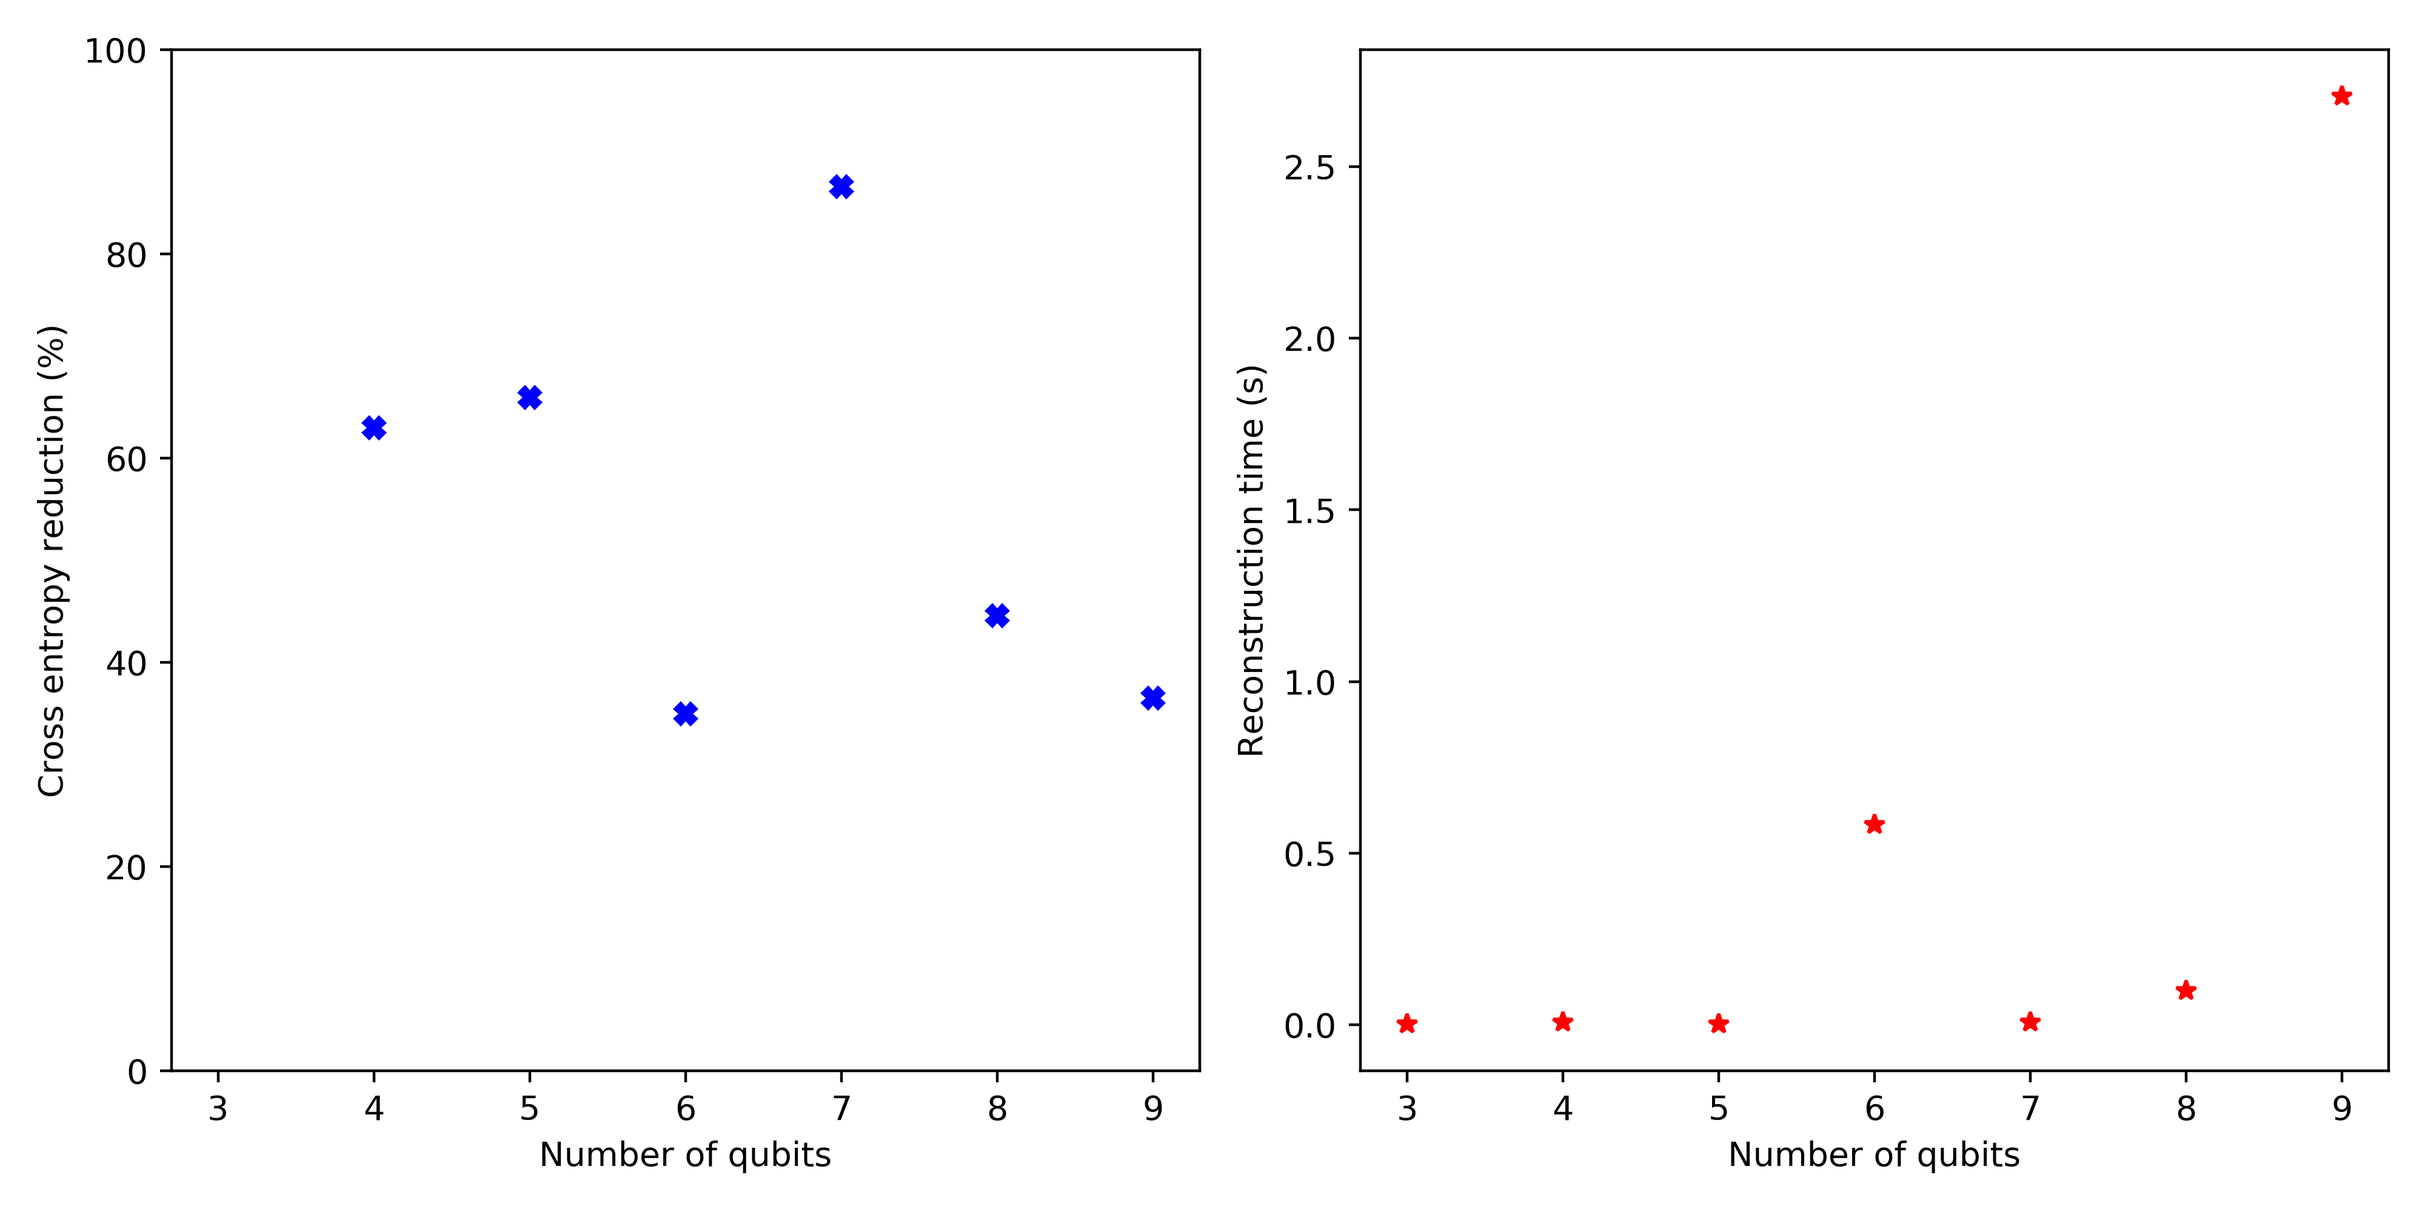
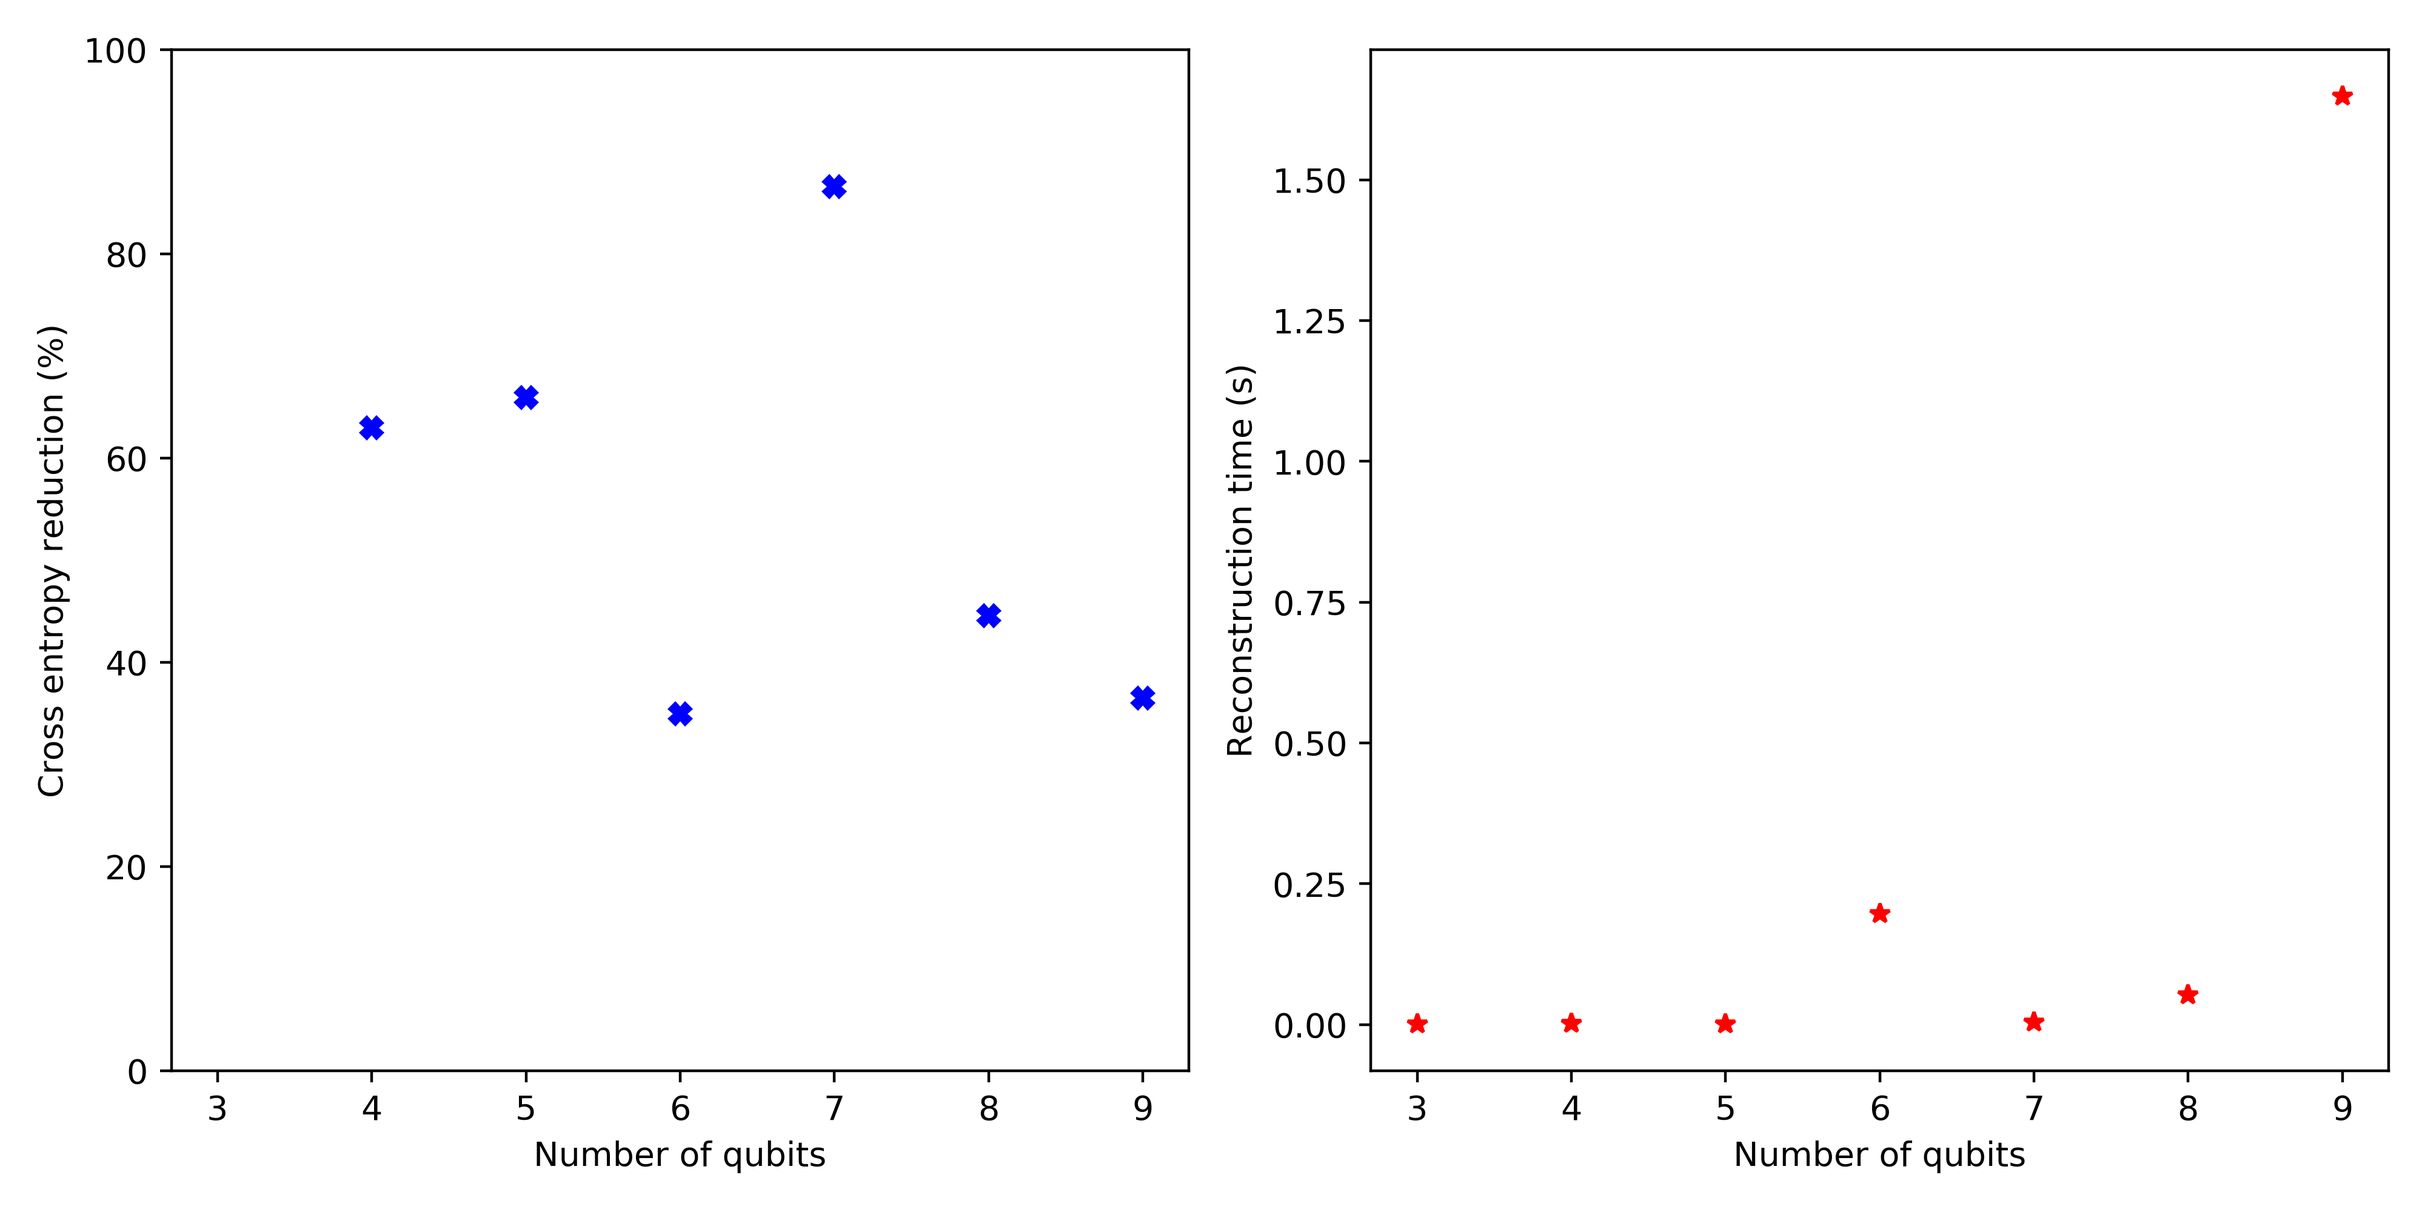
updated plotter, debugged fidelity

diff --git a/plot.py b/plot.py
@@ -119,16 +119,148 @@ def annotate_heatmap(im, data=None, valfmt="{x:.2f}",
     for i in range(data.shape[0]):
         for j in range(data.shape[1]):
             kw.update(color=textcolors[int(im.norm(data[i, j]) > threshold)])
-            text = im.axes.text(j, i, valfmt(data[i, j], None) if data[i, j]!=0 else 'DNE', **kw)
+            text_to_fill = valfmt(data[i, j], None) if data[i, j]!=0 else 'DNE'
+            text = im.axes.text(j, i, text_to_fill, **kw)
             texts.append(text)
 
     return texts
 
-def initialize_dict(cases):
-    empty_dict = {}
-    for case in cases:
-        empty_dict[case] = 0.0
-    return empty_dict
+def plot_tradeoff(best_cc,circuit_type):
+    plt.figure(figsize=(10,5))
+    plt.subplot(121)
+    plt.xlabel('Number of qubits')
+    if circuit_type == 'supremacy':
+        plt.plot([fc for fc in best_cc], [best_cc[fc]['ce_percent'] for fc in best_cc], 'bX')
+        plt.ylabel('Cross entropy reduction (%)')
+        plt.ylim(0,100)
+    elif circuit_type == 'bv' or circuit_type=='hwea':
+        plt.plot([fc for fc in best_cc], [best_cc[fc]['fid_percent'] for fc in best_cc], 'bX')
+        plt.ylabel('Fidelity improvement (%)')
+    plt.xticks([x for x in best_cc])
+    plt.subplot(122)
+    plt.plot([fc for fc in best_cc], [best_cc[fc]['uniter_time'] for fc in best_cc], 'r*')
+    plt.xlabel('Number of qubits')
+    plt.ylabel('Reconstruction time (s)')
+    plt.xticks([x for x in best_cc])
+    plt.tight_layout()
+    plt.savefig('%s_tradeoff.png'%figname[:-2],dpi=400)
+    plt.close()
+
+def plot_3d_bar(plotter_input,hw_qubits,fc_qubits):
+    searcher_times = [plotter_input[case]['searcher_time'] for case in plotter_input]
+    classical_times = [plotter_input[case]['classical_time'] for case in plotter_input]
+    quantum_times = [plotter_input[case]['quantum_time'] for case in plotter_input]
+    uniter_times = [plotter_input[case]['uniter_time'] for case in plotter_input]
+    ce_percent_changes = [plotter_input[case]['ce_percent_reduction'] for case in plotter_input]
+    fid_percent_changes = [plotter_input[case]['fid_percent_improvement'] for case in plotter_input]
+    fig_scale = 4.5
+    fig = plt.figure(figsize=(3*fig_scale,2*fig_scale))
+    ax1 = fig.add_subplot(231, projection='3d')
+    ax1.bar3d(hw_qubits, fc_qubits, np.zeros(len(plotter_input)), dx, dy, searcher_times)
+    ax1.set_xlabel('hardware qubits')
+    ax1.set_ylabel('full circuit qubits')
+    ax1.set_zlabel('searcher time (seconds)')
+    ax1 = fig.add_subplot(232, projection='3d')
+    ax1.bar3d(hw_qubits, fc_qubits, np.zeros(len(plotter_input)), dx, dy, classical_times)
+    ax1.set_zlim3d(0, 1.2*max(classical_times)+1)
+    ax1.set_xlabel('hardware qubits')
+    ax1.set_ylabel('full circuit qubits')
+    ax1.set_zlabel('classical evaluator time (seconds)')
+    ax1 = fig.add_subplot(233, projection='3d')
+    ax1.bar3d(hw_qubits, fc_qubits, np.zeros(len(plotter_input)), dx, dy, quantum_times)
+    ax1.set_zlim3d(0, 1.2*max(quantum_times)+1)
+    ax1.set_xlabel('hardware qubits')
+    ax1.set_ylabel('full circuit qubits')
+    ax1.set_zlabel('quantum evaluator time (seconds)')
+    ax1 = fig.add_subplot(234, projection='3d')
+    ax1.bar3d(hw_qubits, fc_qubits, np.zeros(len(plotter_input)), dx, dy, uniter_times)
+    ax1.set_xlabel('hardware qubits')
+    ax1.set_ylabel('full circuit qubits')
+    ax1.set_zlabel('reconstructor time (seconds)')
+    ax1 = fig.add_subplot(235, projection='3d')
+    ax1.bar3d(hw_qubits, fc_qubits, np.zeros(len(plotter_input)), dx, dy, ce_percent_changes)
+    ax1.set_zlim3d(min(0,1.2*min(ce_percent_changes)), max(0,1.2*max(ce_percent_changes)))
+    ax1.set_xlabel('hardware qubits')
+    ax1.set_ylabel('full circuit qubits')
+    ax1.set_zlabel('cross entropy gap reduction due to cutting (%)')
+    ax1 = fig.add_subplot(236, projection='3d')
+    ax1.bar3d(hw_qubits, fc_qubits, np.zeros(len(plotter_input)), dx, dy, fid_percent_changes)
+    ax1.set_zlim3d(min(0,1.2*min(fid_percent_changes)), max(0,1.2*max(fid_percent_changes)))
+    ax1.set_xlabel('hardware qubits')
+    ax1.set_ylabel('full circuit qubits')
+    ax1.set_zlabel('Fidelity improvement due to cutting (%)')
+    plt.savefig('%s.png'%figname[:-2],dpi=400)
+    plt.close()
+
+def plot_heatmap(plotter_input,hw_qubits,fc_qubits,circuit_type):
+    hw_qubits_unique = list(np.unique(hw_qubits))
+    fc_qubits_unique = list(np.unique(fc_qubits))
+    fc_qubits_unique.sort(reverse=True)
+    reduction_map = np.zeros((len(fc_qubits_unique), len(hw_qubits_unique)))
+    for fc_qubit in fc_qubits_unique:
+        for hw_qubit in hw_qubits_unique:
+            case = (hw_qubit,fc_qubit)
+            if circuit_type == 'supremacy':
+                percent = plotter_input[case]['ce_percent_reduction'] if case in plotter_input else 0
+            elif circuit_type == 'bv' or circuit_type=='hwea':
+                percent = plotter_input[case]['fid_percent_improvement'] if case in plotter_input else 0
+            row_idx = fc_qubits_unique.index(fc_qubit)
+            col_idx = hw_qubits_unique.index(hw_qubit)
+            reduction_map[row_idx, col_idx] = percent
+
+    fig, ax = plt.subplots(figsize=(10,10))
+
+    im, cbar = heatmap(reduction_map, fc_qubits_unique, hw_qubits_unique, ax=ax,
+                    cmap="YlGn", cbarlabel="Cross Entropy Loss Reduction [%]" if circuit_type == 'supremacy' or circuit_type == 'qft' else "Fidelity Improvement [%]")
+    texts = annotate_heatmap(im, valfmt="{x:.3f} %")
+    ax.set_xlabel('Hardware qubits')
+    ax.set_ylabel('Full circuit qubits')
+
+    metric_type = 'ce' if (circuit_type == 'supremacy' or circuit_type == 'qft') else 'fid'
+    fig.tight_layout()
+    plt.savefig('{}_{}_map.png'.format(figname[:-2],metric_type),dpi=1000)
+    plt.close()
+
+def plot_fid_bar(best_cc,circuit_type):
+    n_groups = len(best_cc)
+    fig, ax = plt.subplots()
+    index = np.arange(n_groups)
+    bar_width = 0.35
+    opacity = 0.8
+
+    if circuit_type == 'supremacy':
+        vanilla = [best_cc[fc]['hw_fc_ce'] for fc in best_cc]
+        cutting = [best_cc[fc]['cutting_ce'] for fc in best_cc]
+        plt.ylabel('\u0394H')
+        plt.title('\u0394H Reduction')
+    elif circuit_type == 'bv' or circuit_type=='hwea':
+        vanilla = [best_cc[fc]['hw_fc_fid'] for fc in best_cc]
+        cutting = [best_cc[fc]['cutting_fid'] for fc in best_cc]
+        plt.ylim(0,1)
+        plt.ylabel('Fidelity')
+        plt.title('Fidelity Improvement')
+    else:
+        vanilla = None
+        cutting = None
+
+    rects1 = plt.bar(index, vanilla, bar_width,
+    alpha=opacity,
+    color='b',
+    label='Vanilla')
+
+    rects2 = plt.bar(index + bar_width, cutting, bar_width,
+    alpha=opacity,
+    color='g',
+    label='Cutting')
+
+    plt.xlabel('Full circuit size')
+    plt.xticks(index + bar_width, list(best_cc.keys()))
+    plt.legend()
+
+    plt.tight_layout()
+    plt.savefig('%s_improvement.png'%figname[:-2],dpi=400)
+    plt.close()
+
 
 if __name__ == '__main__':
     all_files = glob.glob('./benchmark_data/*_plotter_input_*.p')
@@ -157,6 +289,7 @@ if __name__ == '__main__':
             obs= plotter_input[case]['evaluations']['cutting'])
             ce_percent_change = 100*(hw_fc_ce - cutting_ce)/(hw_fc_ce - ground_truth_ce)
             assert ce_percent_change <= 100 and ce_percent_change == plotter_input[case]['ce_percent_reduction']
+            plotter_input[case]['ce_comparisons'] = (hw_fc_ce-ground_truth_ce,cutting_ce-ground_truth_ce)
 
             ground_truth_fid = fidelity(target=plotter_input[case]['evaluations']['sv_noiseless'],
             obs= plotter_input[case]['evaluations']['sv_noiseless'])
@@ -169,7 +302,10 @@ if __name__ == '__main__':
             cutting_fid = fidelity(target=plotter_input[case]['evaluations']['sv_noiseless'],
             obs= plotter_input[case]['evaluations']['cutting'])
             fid_percent_change = 100*(cutting_fid-hw_fc_fid)/hw_fc_fid
-            assert fid_percent_change == plotter_input[case]['fid_percent_improvement']
+            if circuit_type == 'bv' or circuit_type=='hwea':
+                assert fid_percent_change == plotter_input[case]['fid_percent_improvement']
+                assert abs(ground_truth_fid-1)<1e-10 and abs(qasm_fid-1)<1e-10 and qasm_noise_fid<=1 and hw_fc_fid<=1 and cutting_fid<=1
+            plotter_input[case]['fid_comparisons'] = (hw_fc_fid,cutting_fid)
 
             print('case {}: ce percentage reduction = {:.3f}, fidelity improvement = {:.3f}, reconstruction time: {:.3e}'.format(case,ce_percent_change,fid_percent_change,plotter_input[case]['uniter_time']))
         print('*'*50)
@@ -179,113 +315,23 @@ if __name__ == '__main__':
             ce_percent = plotter_input[case]['ce_percent_reduction']
             fid_percent = plotter_input[case]['fid_percent_improvement']
             uniter_time = plotter_input[case]['uniter_time']
+            hw_fc_fid, cutting_fid = plotter_input[case]['fid_comparisons']
+            hw_fc_ce, cutting_ce = plotter_input[case]['ce_comparisons']
             hw, fc = case
-            if circuit_type == 'supremacy' or circuit_type == 'qft':
-                if (fc in best_cc and ce_percent>best_cc[fc][0]) or (fc not in best_cc):
-                    best_cc[fc] = (ce_percent,uniter_time,case)
+            if circuit_type == 'supremacy':
+                if (fc in best_cc and ce_percent>best_cc[fc]['ce_percent']) or (fc not in best_cc):
+                    best_cc[fc] = {'ce_percent':ce_percent,'uniter_time':uniter_time,'best_case':case,'hw_fc_ce':hw_fc_ce,'cutting_ce':cutting_ce}
             elif circuit_type == 'bv' or circuit_type=='hwea':
-                if (fc in best_cc and fid_percent>best_cc[fc][0]) or (fc not in best_cc):
-                    best_cc[fc] = (fid_percent,uniter_time,case)
+                if (fc in best_cc and fid_percent>best_cc[fc]['fid_percent']) or (fc not in best_cc):
+                    best_cc[fc] = {'fid_percent':fid_percent,'uniter_time':uniter_time,'best_case':case,'hw_fc_fid':hw_fc_fid,'cutting_fid':cutting_fid}
             else:
                 raise Exception('Illegal circuit type:',circuit_type)
-        if circuit_type == 'supremacy' or circuit_type == 'qft':
-            [print('Full circuit size {:d}. Best case {}. Cross entropy reduction = {:.3f}%. Reconstruction time = {:.3e} seconds.'.format(fc,best_cc[fc][2],best_cc[fc][0],best_cc[fc][1])) for fc in best_cc]
-        elif circuit_type == 'bv' or circuit_type=='hwea':
-            [print('Full circuit size {:d}. Best case {}. Fidelity improvement = {:.3f}%. Reconstruction time = {:.3e} seconds.'.format(fc,best_cc[fc][2],best_cc[fc][0],best_cc[fc][1])) for fc in best_cc]
-        else:
-            raise Exception('Illegal circuit type:',circuit_type)
+        [print(best_cc[fc]) for fc in best_cc]
         
         print('plotting %s'%(figname))
 
-        plt.figure(figsize=(10,5))
-        plt.subplot(121)
-        plt.plot([fc for fc in best_cc], [best_cc[fc][0] for fc in best_cc], 'bX')
-        plt.xlabel('Number of qubits')
-        if circuit_type == 'supremacy' or circuit_type == 'qft':
-            plt.ylabel('Cross entropy reduction (%)')
-            plt.ylim(0,100)
-        elif circuit_type == 'bv' or circuit_type=='hwea':
-            plt.ylabel('Fidelity improvement (%)')
-        plt.xticks([x for x in best_cc])
-        plt.subplot(122)
-        plt.plot([fc for fc in best_cc], [best_cc[fc][1] for fc in best_cc], 'r*')
-        plt.xlabel('Number of qubits')
-        plt.ylabel('Reconstruction time (s)')
-        plt.xticks([x for x in best_cc])
-        plt.tight_layout()
-        plt.savefig('%s_tradeoff.png'%figname[:-2],dpi=400)
-        plt.close()
-
-        searcher_times = [plotter_input[case]['searcher_time'] for case in plotter_input]
-        classical_times = [plotter_input[case]['classical_time'] for case in plotter_input]
-        quantum_times = [plotter_input[case]['quantum_time'] for case in plotter_input]
-        uniter_times = [plotter_input[case]['uniter_time'] for case in plotter_input]
-        ce_percent_changes = [plotter_input[case]['ce_percent_reduction'] for case in plotter_input]
-        fid_percent_changes = [plotter_input[case]['fid_percent_improvement'] for case in plotter_input]
-        fig_scale = 4.5
-        fig = plt.figure(figsize=(3*fig_scale,2*fig_scale))
-        ax1 = fig.add_subplot(231, projection='3d')
-        ax1.bar3d(hw_qubits, fc_qubits, np.zeros(len(plotter_input)), dx, dy, searcher_times)
-        ax1.set_xlabel('hardware qubits')
-        ax1.set_ylabel('full circuit qubits')
-        ax1.set_zlabel('searcher time (seconds)')
-        ax1 = fig.add_subplot(232, projection='3d')
-        ax1.bar3d(hw_qubits, fc_qubits, np.zeros(len(plotter_input)), dx, dy, classical_times)
-        ax1.set_zlim3d(0, 1.2*max(classical_times)+1)
-        ax1.set_xlabel('hardware qubits')
-        ax1.set_ylabel('full circuit qubits')
-        ax1.set_zlabel('classical evaluator time (seconds)')
-        ax1 = fig.add_subplot(233, projection='3d')
-        ax1.bar3d(hw_qubits, fc_qubits, np.zeros(len(plotter_input)), dx, dy, quantum_times)
-        ax1.set_zlim3d(0, 1.2*max(quantum_times)+1)
-        ax1.set_xlabel('hardware qubits')
-        ax1.set_ylabel('full circuit qubits')
-        ax1.set_zlabel('quantum evaluator time (seconds)')
-        ax1 = fig.add_subplot(234, projection='3d')
-        ax1.bar3d(hw_qubits, fc_qubits, np.zeros(len(plotter_input)), dx, dy, uniter_times)
-        ax1.set_xlabel('hardware qubits')
-        ax1.set_ylabel('full circuit qubits')
-        ax1.set_zlabel('reconstructor time (seconds)')
-        ax1 = fig.add_subplot(235, projection='3d')
-        ax1.bar3d(hw_qubits, fc_qubits, np.zeros(len(plotter_input)), dx, dy, ce_percent_changes)
-        ax1.set_zlim3d(min(0,1.2*min(ce_percent_changes)), max(0,1.2*max(ce_percent_changes)))
-        ax1.set_xlabel('hardware qubits')
-        ax1.set_ylabel('full circuit qubits')
-        ax1.set_zlabel('cross entropy gap reduction due to cutting (%)')
-        ax1 = fig.add_subplot(236, projection='3d')
-        ax1.bar3d(hw_qubits, fc_qubits, np.zeros(len(plotter_input)), dx, dy, fid_percent_changes)
-        ax1.set_zlim3d(min(0,1.2*min(fid_percent_changes)), max(0,1.2*max(fid_percent_changes)))
-        ax1.set_xlabel('hardware qubits')
-        ax1.set_ylabel('full circuit qubits')
-        ax1.set_zlabel('Fidelity improvement due to cutting (%)')
-        plt.savefig('%s.png'%figname[:-2],dpi=400)
-        plt.close()
-
-        hw_qubits_unique = list(np.unique(hw_qubits))
-        fc_qubits_unique = list(np.unique(fc_qubits))
-        fc_qubits_unique.sort(reverse=True)
-        reduction_map = np.zeros((len(fc_qubits_unique), len(hw_qubits_unique)))
-        for fc_qubit in fc_qubits_unique:
-            for hw_qubit in hw_qubits_unique:
-                case = (hw_qubit,fc_qubit)
-                if circuit_type == 'supremacy' or circuit_type == 'qft':
-                    percent = plotter_input[case]['ce_percent_reduction'] if case in plotter_input else 0
-                elif circuit_type == 'bv' or circuit_type=='hwea':
-                    percent = plotter_input[case]['fid_percent_improvement'] if case in plotter_input else 0
-                row_idx = fc_qubits_unique.index(fc_qubit)
-                col_idx = hw_qubits_unique.index(hw_qubit)
-                reduction_map[row_idx, col_idx] = percent
-
-        fig, ax = plt.subplots(figsize=(10,10))
-
-        im, cbar = heatmap(reduction_map, fc_qubits_unique, hw_qubits_unique, ax=ax,
-                        cmap="YlGn", cbarlabel="Cross Entropy Loss Reduction [%]" if circuit_type == 'supremacy' or circuit_type == 'qft' else "Fidelity Improvement [%]")
-        texts = annotate_heatmap(im, valfmt="{x:.3f} %")
-        ax.set_xlabel('Hardware qubits')
-        ax.set_ylabel('Full circuit qubits')
-
-        metric_type = 'ce' if (circuit_type == 'supremacy' or circuit_type == 'qft') else 'fid'
-        fig.tight_layout()
-        plt.savefig('{}_{}_map.png'.format(figname[:-2],metric_type),dpi=1000)
-        plt.close()
+        plot_tradeoff(best_cc,circuit_type)
+        plot_3d_bar(plotter_input,hw_qubits,fc_qubits)
+        plot_heatmap(plotter_input,hw_qubits,fc_qubits,circuit_type)
+        plot_fid_bar(best_cc,circuit_type)
         print('-'*100)

diff --git a/helper_fun.py b/helper_fun.py
@@ -42,6 +42,11 @@ def cross_entropy(target,obs):
 
 def fidelity(target,obs):
     assert len(target)==len(obs)
+    epsilon = 1e-20
+    obs = [abs(x) if x!=0 else epsilon for x in obs]
+    sum_of_prob = sum(obs)
+    obs = [x/sum_of_prob for x in obs]
+    assert abs(sum(obs)-1) <= 1e-10
     fidelity = 0
     for t,o in zip(target,obs):
         if t!= 0:
